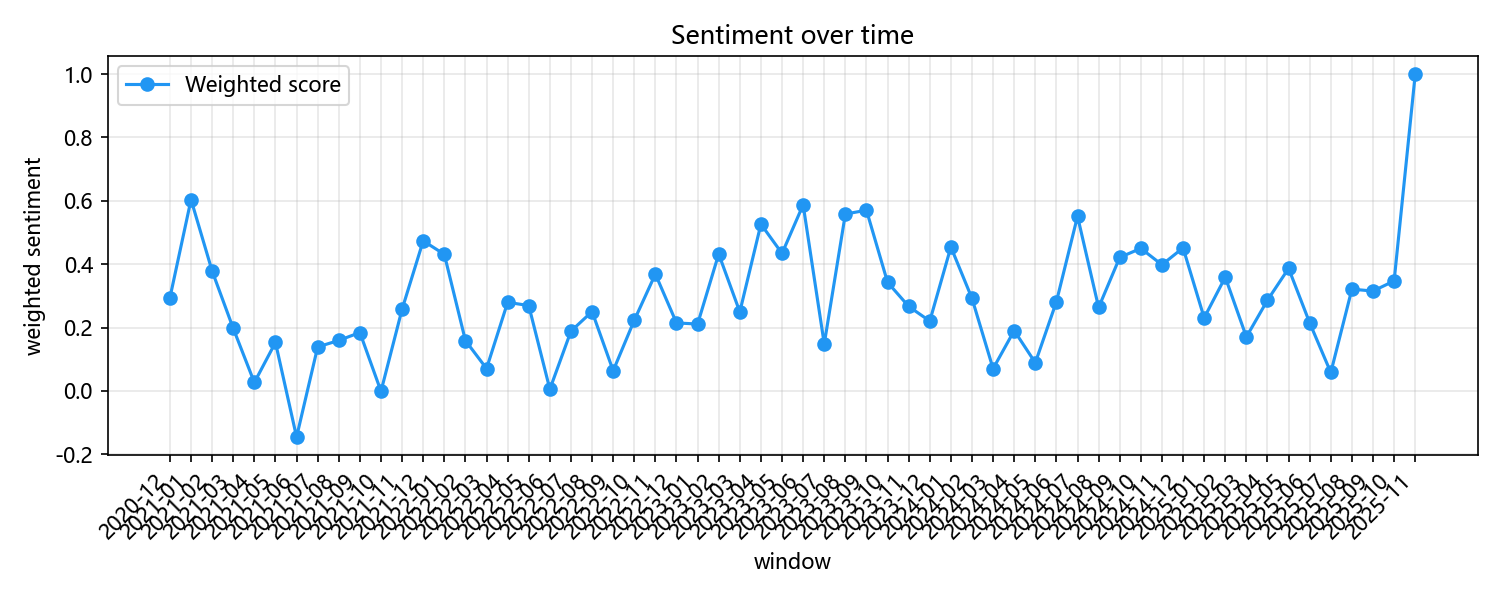
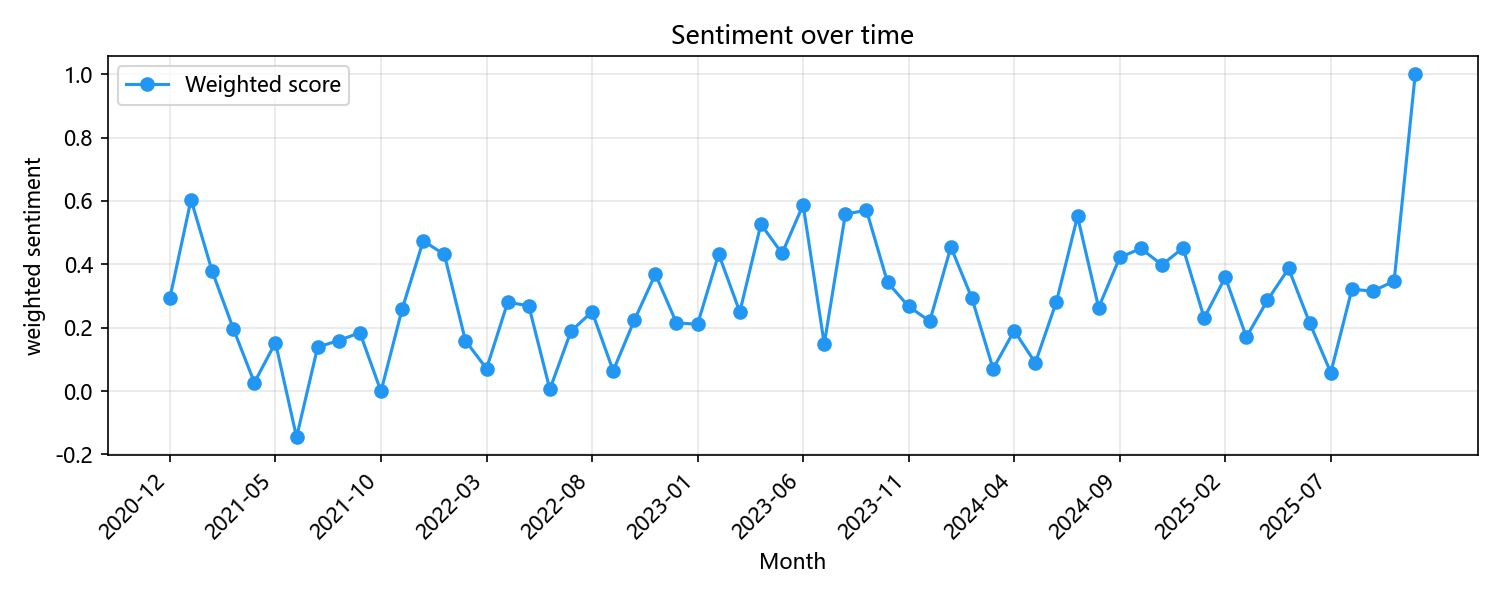
横坐标稀疏美化

Changed region(s): [[0.0613, 0.78, 0.9507, 0.9], [0.4907, 0.93, 0.552, 0.96], [0.0307, 0.63, 0.0613, 0.66]]

diff --git a/analysis/visualize.py b/analysis/visualize.py
@@ -40,14 +40,23 @@ def plot_sentiment(ts_csv: str, output_dir: str) -> str:
     if df.empty:
         return ""
     df = df.sort_values("window")
+    x_idx = list(range(len(df)))
+    x_labels = df["window"].tolist()
+
     fig, ax = plt.subplots(figsize=(10,4))
-    ax.plot(df["window"], df["score"], marker="o", label="Weighted score", color="#2196f3")
-    ax.set_xlabel("window")
+    ax.plot(x_idx, df["score"], marker="o", label="Weighted score", color="#2196f3")
+    ax.set_xlabel("Month")
     ax.set_ylabel("weighted sentiment")
     ax.set_title("Sentiment over time")
     ax.grid(True, alpha=0.3)
     ax.legend(loc="best")
-    plt.xticks(rotation=45, ha="right")
+
+    # 稀疏化时间刻度，避免横轴过于密集
+    if x_idx:
+        step = max(1, len(x_idx) // 12)  # 至多约 12 个刻度
+        tick_positions = x_idx[::step]
+        tick_labels = [x_labels[i] for i in tick_positions]
+        plt.xticks(tick_positions, tick_labels, rotation=45, ha="right")
     path = os.path.join(output_dir, "visualizations", "sentiment_timeseries.png")
     os.makedirs(os.path.dirname(path), exist_ok=True)
     fig.tight_layout()
@@ -78,9 +87,9 @@ def plot_sentiment_ratios(ts_csv: str, output_dir: str) -> str:
     if df.empty:
         return ""
     fig, ax = plt.subplots(figsize=(10,5))
-    x = df["window"]
+    x_idx = list(range(len(df)))
     ax.stackplot(
-        x,
+        x_idx,
         df["pos_ratio"],
         df["neu_ratio"],
         df["neg_ratio"],
@@ -94,7 +103,14 @@ def plot_sentiment_ratios(ts_csv: str, output_dir: str) -> str:
     ax.set_title("Monthly Sentiment Composition")
     ax.grid(alpha=0.2, axis="y")
     ax.legend(loc="upper right")
-    plt.xticks(rotation=45, ha="right")
+
+    # 稀疏化时间刻度
+    if x_idx:
+        x_labels = df["window"].tolist()
+        step = max(1, len(x_idx) // 12)
+        tick_positions = x_idx[::step]
+        tick_labels = [x_labels[i] for i in tick_positions]
+        plt.xticks(tick_positions, tick_labels, rotation=45, ha="right")
     path = os.path.join(output_dir, "visualizations", "sentiment_ratios.png")
     os.makedirs(os.path.dirname(path), exist_ok=True)
     fig.tight_layout()
@@ -142,7 +158,12 @@ def plot_sentiment_ratio_and_score(ts_csv: str, output_dir: str) -> str:
     h2, l2 = ax2.get_legend_handles_labels()
     ax1.legend(h1 + h2, l1 + l2, loc="upper left")
 
-    plt.xticks(x_idx, x_labels, rotation=45, ha="right")
+    # 稀疏化时间刻度
+    if x_idx:
+        step = max(1, len(x_idx) // 12)
+        tick_positions = x_idx[::step]
+        tick_labels = [x_labels[i] for i in tick_positions]
+        plt.xticks(tick_positions, tick_labels, rotation=45, ha="right")
     plt.title("Monthly Sentiment Ratios and Score")
 
     path = os.path.join(output_dir, "visualizations", "sentiment_ratio_score.png")
